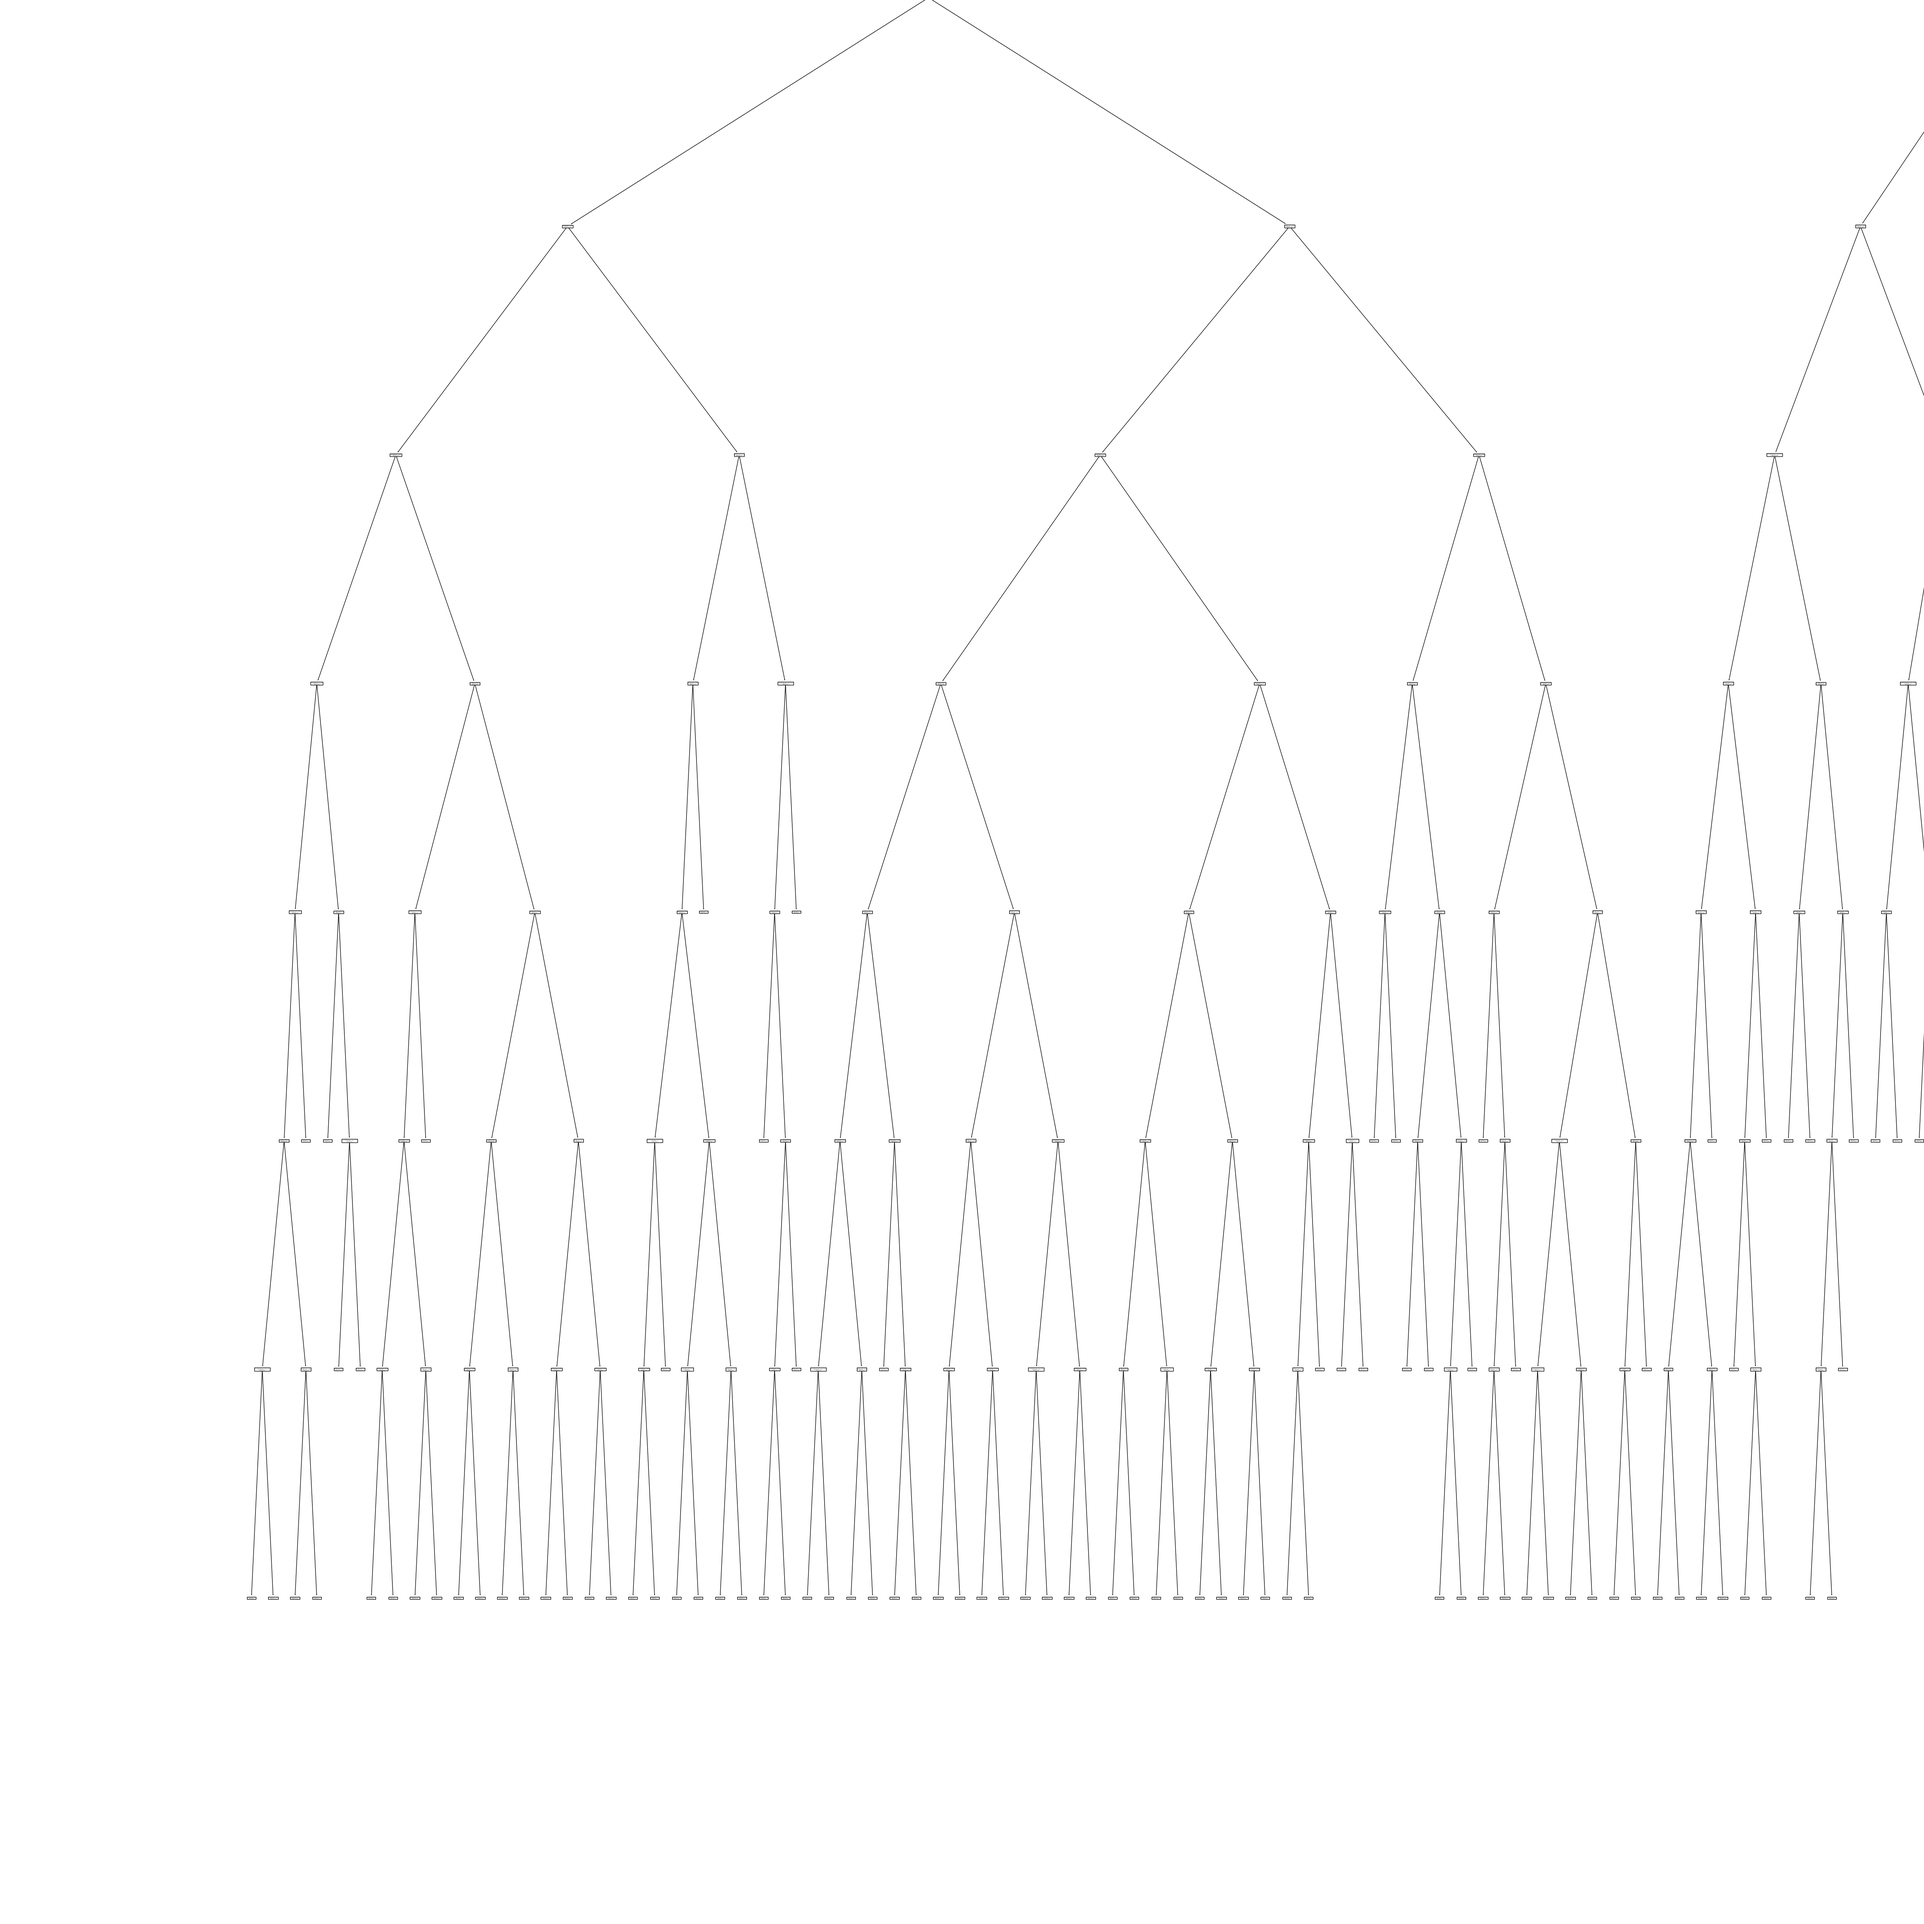
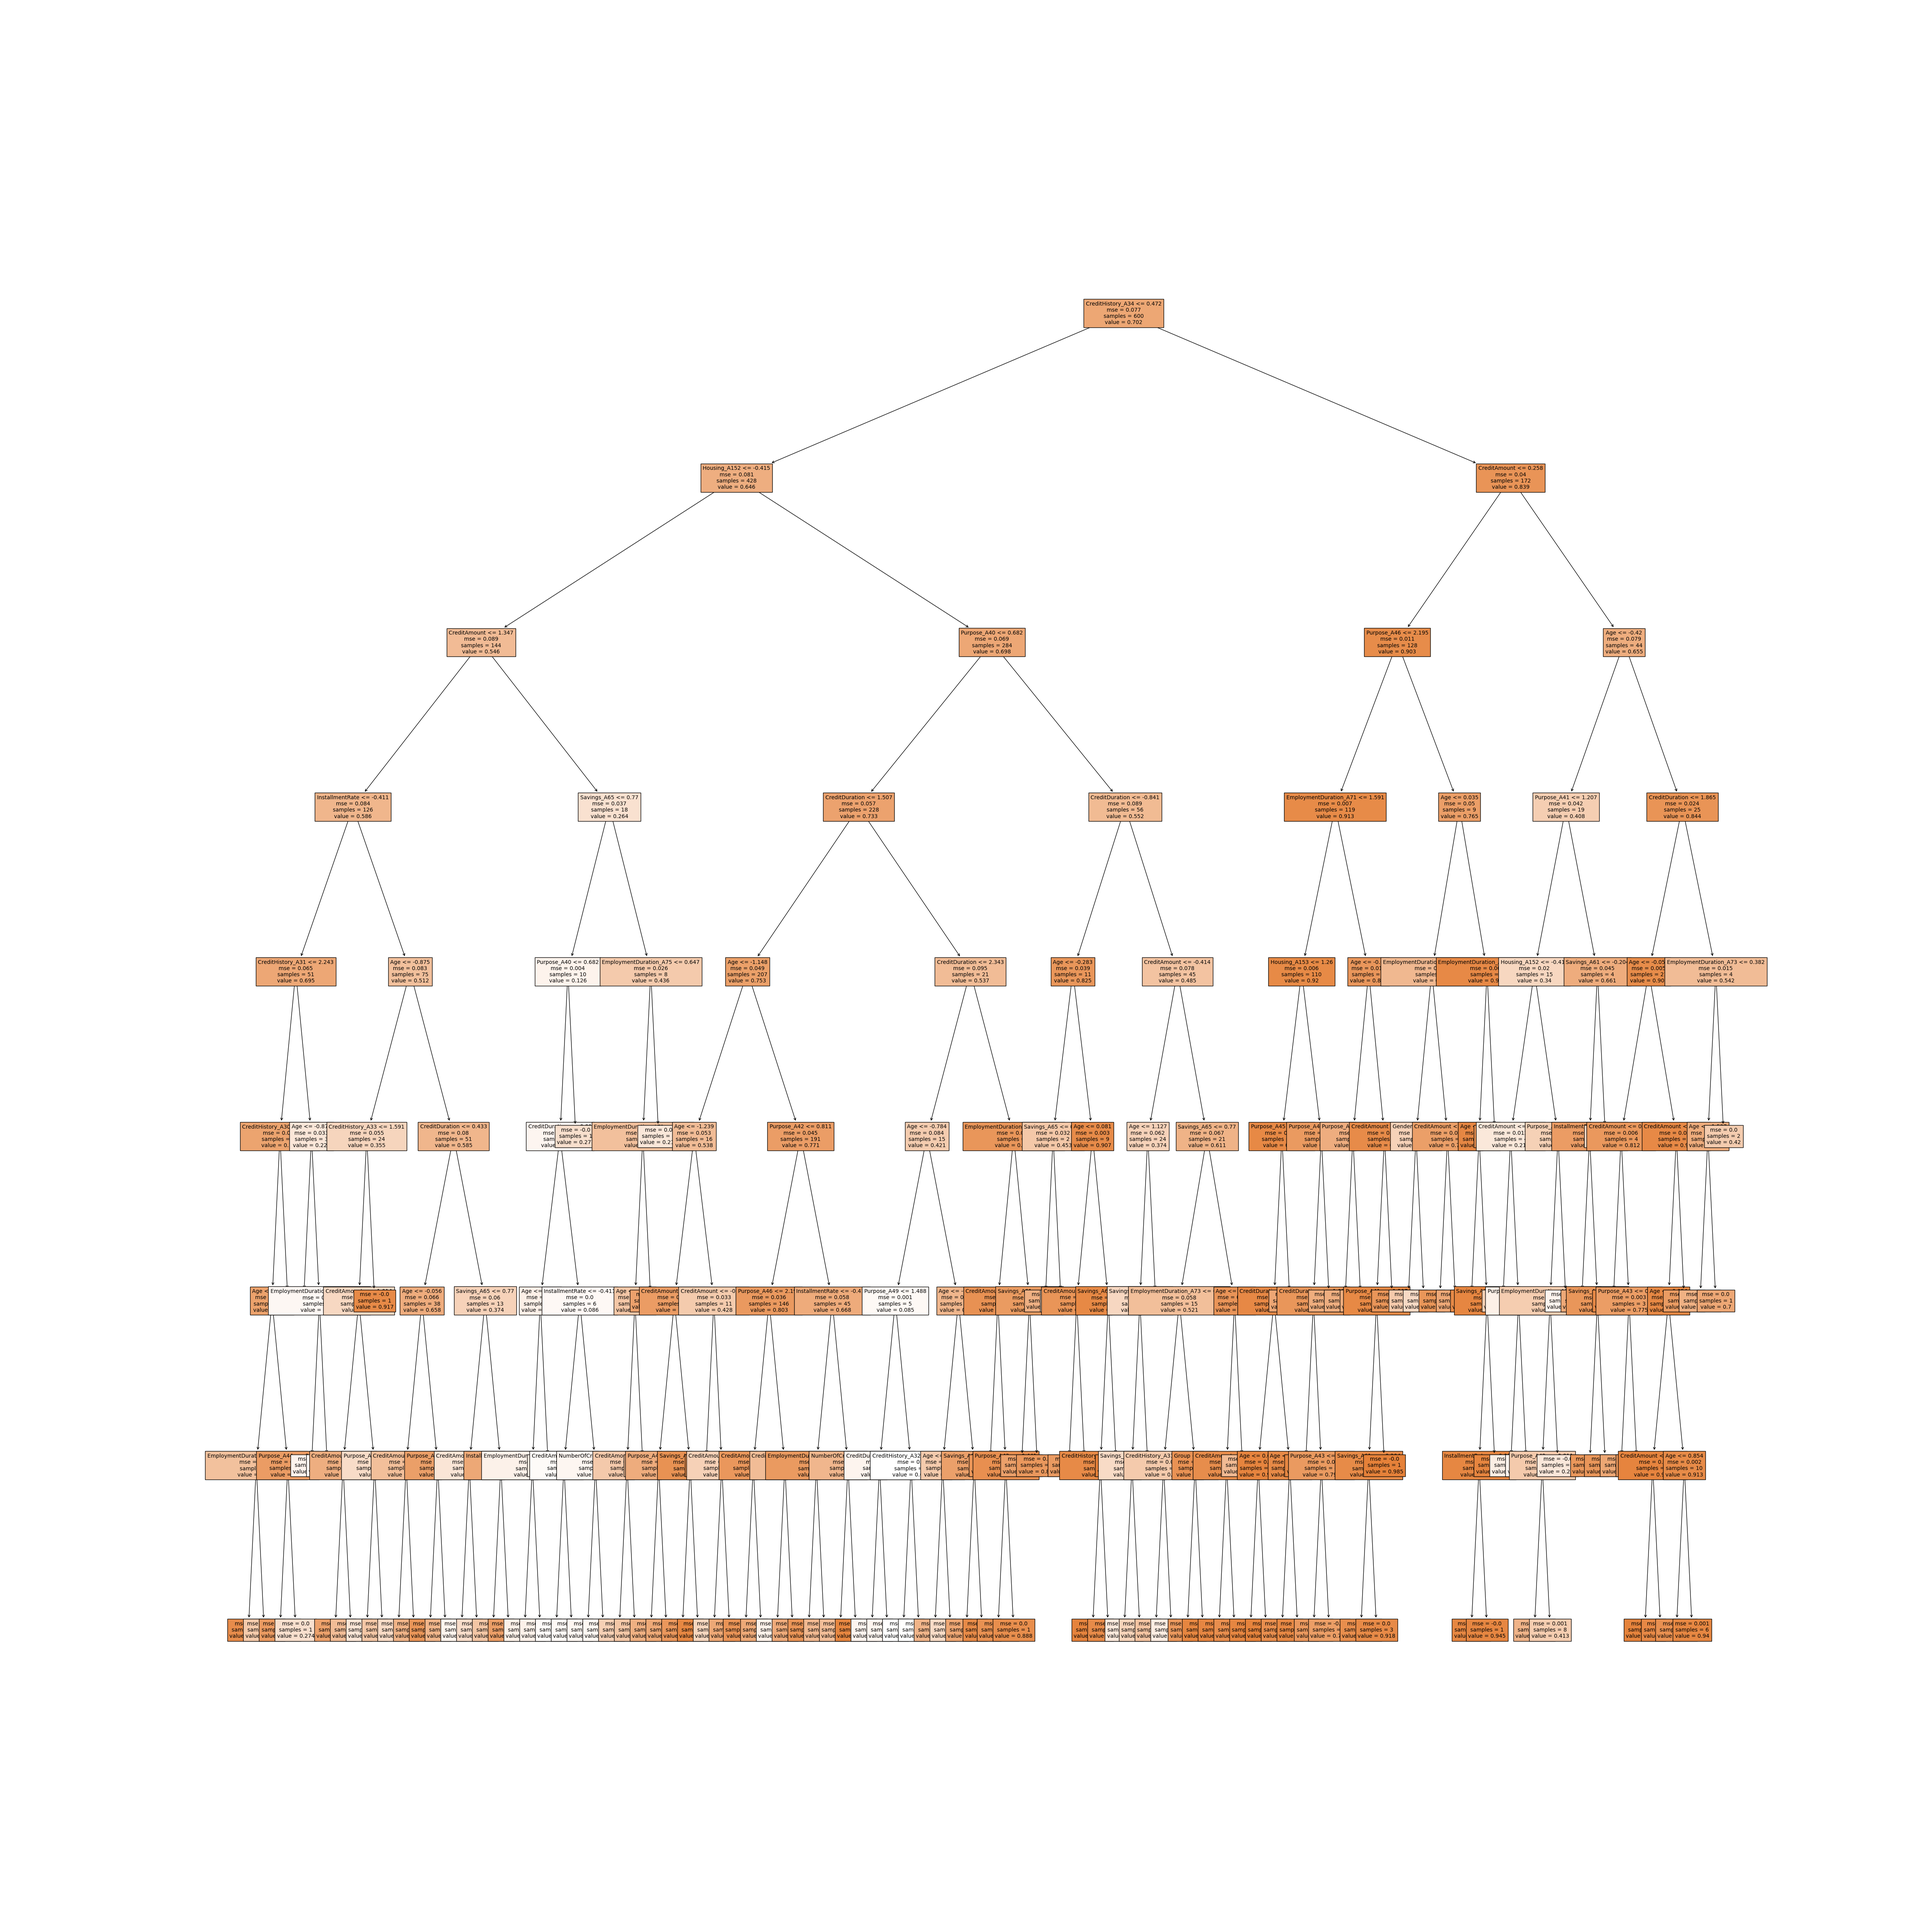
decision tree graph changes

diff --git a/src/surrogate.py b/src/surrogate.py
@@ -10,6 +10,7 @@ from sklearn.linear_model import Lasso, LinearRegression
 from sklearn.tree import DecisionTreeRegressor
 from sklearn import tree
 
+from dtreeviz.trees import dtreeviz
 
 class SurrogateModel:
     def __init__(self, config):
@@ -69,9 +70,14 @@ class SurrogateModel:
                 text_representation = tree.export_text(
                     model, feature_names=list(self.X.columns)
                 )
-                # fig, ax = plt.subplots(figsize=(50, 50), nrows=1, ncols=1)
-                # tree.plot_tree(model, feature_names=list(self.X.columns))
-                # fig.savefig(self.config["output"]["plot_tree"])
+                fig, ax = plt.subplots(figsize=(50, 50), nrows=1, ncols=1)
+                tree.plot_tree(model, feature_names=list(self.X.columns), fontsize=10, filled=True)
+                fig.savefig(self.config["output"]["plot_tree"])
+
+                #tree.plot_tree(model, feature_names=list(self.X.columns), fontsize=10, filled=True).savefig(self.config["output"]["plot_tree"])
+                #viz = dtreeviz(model, self.X_fit, self.y, target_name="CreditRisk (y)", feature_names=list(self.X.columns))
+                #viz.save(self.config["output"]["plot_tree"])
             except:
+                logger.exception("An error occured")
                 pass
         logger.info(f"Model Outputs: {res}")
